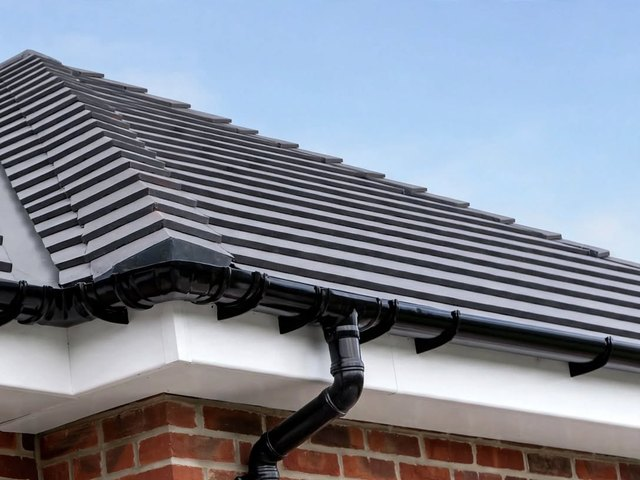
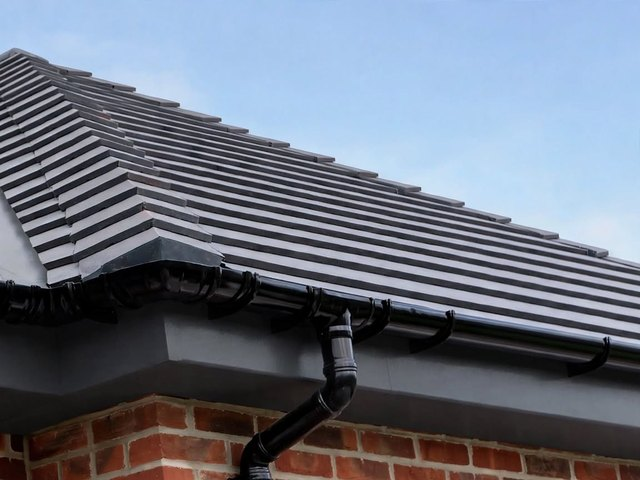
Homepage cards: new Walls and Conservatories pictures; grey roofline for real
Three option-card pictures, all from images Mike supplied on 28 September,
all AI-generated illustrations and recorded as such in SOURCES.md
(category pictures only, never Real Homes; alt text starts
"Illustration:").

  - Walls: a detached house clad in dark grey weatherboard with grey
    windows and brick neighbours (image_20260928_105220…, sharpened as
    asked). Replaces the Pexels sage clapboard house, which was a real
    photo but not a UK one.
  - Conservatories: a white conservatory with a brick dwarf wall on a
    red-brick house (image_20260928_105846.jpg). Replaces the 24 September
    FLUX picture.
  - Roof edge & gutters: the grey-fascia picture. 1c63ae4 said it did this
    and didn't: its commit carried the SOURCES.md and alt-text change but
    the image file was still the white one. Caught on the homepage preview.

Checked the six cards at 1280px. Tests: 916 pass; the 13 failures are
funnel.test.js on port 3128 (the local workspace's proxy).

Claude-Session: https://claude.ai/code/session_01KahvP8hmRzyW3GiaSAxsL1

diff --git a/EXTERIOR-AI/index.html b/EXTERIOR-AI/index.html
@@ -495,14 +495,14 @@
         </span>
       </a>
       <a href="/design?journey=cladding" class="group rounded-2xl overflow-hidden border border-zinc-200 bg-white hover:border-zinc-900 transition">
-        <img src="/assets/products/walls.jpg" alt="A house clad in sage-green weatherboard" width="640" height="480" class="w-full aspect-[4/3] object-cover" loading="eager" decoding="async">
+        <img src="/assets/products/walls.jpg" alt="Illustration: a detached house clad in dark grey weatherboard, with grey windows" width="640" height="480" class="w-full aspect-[4/3] object-cover" loading="eager" decoding="async">
         <span class="block p-3 sm:p-4">
           <span class="block text-lg font-medium">Walls</span>
           <span class="block mt-0.5 text-base leading-7 text-zinc-600">A new finish: render or cladding</span>
         </span>
       </a>
       <a href="/cost/conservatory-cost-uk" class="group rounded-2xl overflow-hidden border border-zinc-200 bg-white hover:border-zinc-900 transition">
-        <img src="/assets/products/conservatory.jpg" alt="Illustration of a white uPVC conservatory on a brick house" width="640" height="480" class="w-full aspect-[4/3] object-cover" loading="eager" decoding="async">
+        <img src="/assets/products/conservatory.jpg" alt="Illustration: a white conservatory with a brick dwarf wall on a red-brick house" width="640" height="480" class="w-full aspect-[4/3] object-cover" loading="eager" decoding="async">
         <span class="block p-3 sm:p-4">
           <span class="block text-lg font-medium">Conservatories</span>
           <span class="block mt-0.5 text-base leading-7 text-zinc-600">Guide prices by style</span>

diff --git a/EXTERIOR-AI/assets/products/SOURCES.md b/EXTERIOR-AI/assets/products/SOURCES.md
@@ -8,8 +8,8 @@ Cropped to 640×480 from images already in the repository.
 | doors.jpg | `assets/work/newbuild-after.jpg` | Gallery photo — see `assets/work/PROVENANCE.md` |
 | roofline.jpg | Right-hand 4:3 crop (1152×864 → 640×480) of `image_20260928_103143-can-you-do-a-after-ingrey.jpg`, 2688×864, the grey-fascia version supplied by Mike on 28 September 2026 (replacing the white one from the same day) | **AI-generated illustration, not a photograph of a real job** (the gutter brackets and corner give it away close up). Replaced the tile-hung gable crop, which showed bargeboards more than fascia, soffit and guttering. Used only as the category picture. Never use it in Real Homes. Replace with a real photo when one is available. |
 | roofs.jpg | `assets/swatches/slate-roof.jpg` | Pexels License, David McElwee — `assets/swatches/CREDITS.md` |
-| walls.jpg | `assets/swatches/sage-slate.jpg` | Pexels License, robertkso — `assets/swatches/CREDITS.md` |
+| walls.jpg | 4:3 crop (1533×1150 → 640×480, lightly sharpened) of `image_20260928_105220-make-it-shaper-i-like-this-could-whoe-house-be-cladded-make-it-sharper.jpg`, 1920×1280, supplied by Mike on 28 September 2026 | **AI-generated illustration, not a photograph of a real job.** Replaced the Pexels sage clapboard house (robertkso), which was a real photo but not a UK house. Category picture only. Never use it in Real Homes. |
 
-| conservatory.jpg | Generated 24 September 2026 with FLUX 1.1 Pro (Replicate, the site's own account): "a white uPVC Victorian conservatory with a dwarf red brick wall and a glass roof, attached to the back of a typical British red brick semi-detached house…" | **AI-generated illustration, not a photograph of a real job.** Used only as the category picture. Never use it in Real Homes ("Photographs, not renders"). Replace with a real photo when one is available. |
+| conservatory.jpg | 4:3 crop (1466×1100 → 640×480, lightly sharpened) of `image_20260928_105846.jpg`, 1920×1280, supplied by Mike on 28 September 2026. Replaced the FLUX 1.1 Pro image generated on 24 September. | **AI-generated illustration, not a photograph of a real job.** Used only as the category picture. Never use it in Real Homes ("Photographs, not renders"). Replace with a real photo when one is available. |
 
 | roofline-white-sm.jpg, roofline-grey-sm.jpg | Right-hand 4:3 crops (600×450) of `image_20260928_103143.jpg` (white) and `image_20260928_103143-can-you-do-a-after-ingrey.jpg` (grey, scaled to the same height first), both supplied by Mike on 28 September 2026 | **AI-generated illustrations**, shown as a pair at the top of the Roof edge & gutters journey to explain the terms. Captioned "Illustration." Not a before-and-after of a real job, and not made by Facet Pro — never caption them as either. |
